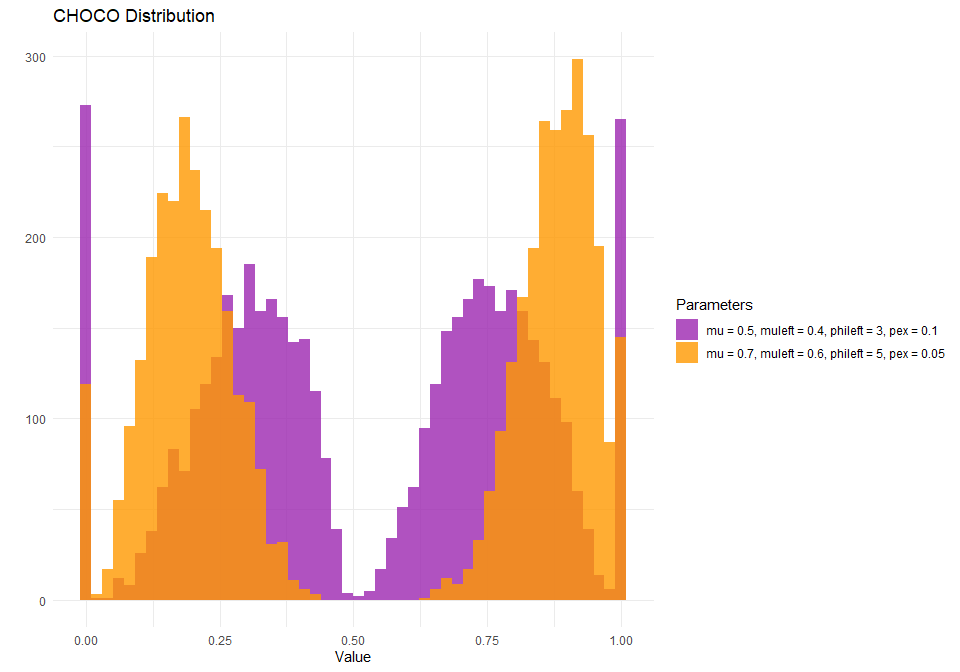
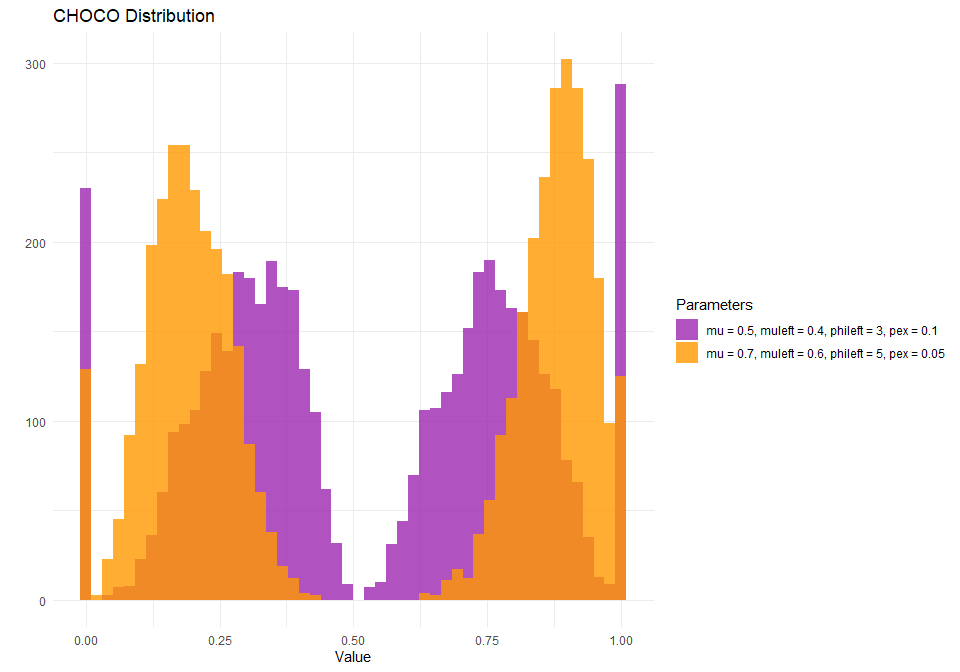
add effect visualization to README

diff --git a/README.md b/README.md
@@ -43,6 +43,7 @@ and confidence (the degree of left or right).
 
 ``` r
 library(ggplot2)
+library(patchwork)
 library(cogmod)
 
 # Simulate data using rchoco() with two parameter sets
@@ -280,17 +281,44 @@ insight::get_data(m_zoib) |>
 
 ![](man/figures/unnamed-chunk-9-1.png)
 
+#### Effect Visualisation
+
 ``` r
-# m_bext <- readRDS("man/figures/m_bext.rds")
-# 
-# # Predict various parameters
-# insight::get_predicted(m_bext, get_datagrid(m_bext), iterations = 4, predict = "pex") |>
-#   as.data.frame()
-# modelbased::estimate_slopes(m_bext, trend="x", by="x") |>
-#   as.data.frame()
-# modelbased::estimate_slopes(m_bext, trend="x", by="x", predict = "pex") |>
-#   as.data.frame()
+p1 <- modelbased::estimate_prediction(m_choco, data = "grid", length = 4, keep_iterations = 500) |> 
+  reshape_iterations() |> 
+  ggplot(aes(x = iter_value, fill = as.factor(x))) +
+  geom_histogram(alpha = 0.6, bins = 100, position = "identity") +
+  scale_fill_bluebrown_d() +
+  theme_minimal()
+
+# Predict various parameters
+pred_params <- data.frame()
+for(param in c("mu", "pex", "phileft", "bex")) {
+  pred_params <- m_choco |> 
+    modelbased::estimate_prediction(data = "grid", length = 20, predict = param) |>
+    as.data.frame() |> 
+    dplyr::mutate(Parameter = param) |> 
+    rbind(pred_params)
+}
+
+p2 <- pred_params |> 
+  ggplot(aes(x = x, y = Predicted)) +
+  geom_ribbon(aes(ymin = CI_low, ymax = CI_high, fill = Parameter), alpha = 0.2) +
+  geom_line(aes(color = Parameter), linewidth = 1) +
+  facet_wrap(~Parameter, scales = "free_y", ncol=4) +
+  scale_fill_viridis_d() +
+  scale_color_viridis_d() +
+  theme_minimal()
+
+p1 / p2
 ```
+
+![](man/figures/unnamed-chunk-10-1.png)
+
+We can see how the distribution changes as a function of **x**.
+Moreover, we can also visualize the effect of **x** on specific
+paramaeters, showing that it mostly affects the main parameters **mu**,
+which corresponds to the ***p*** probability of answering on the right.
 
 ### Decision Making (Choice + RT)
 
